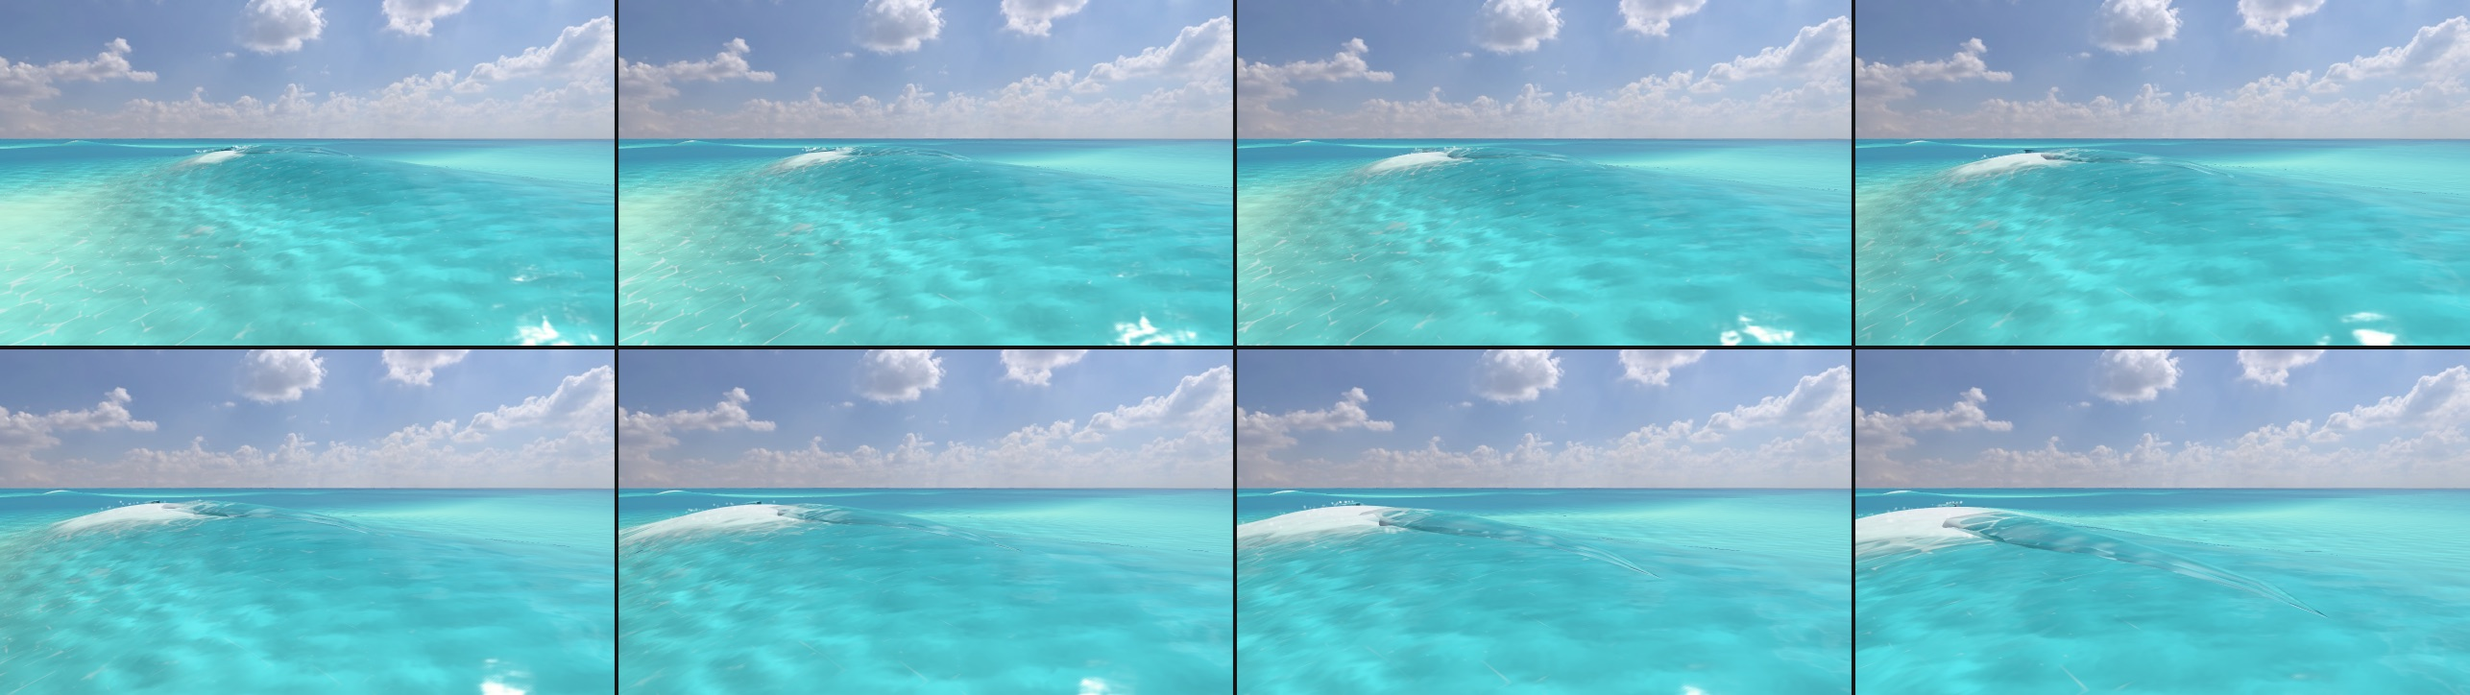
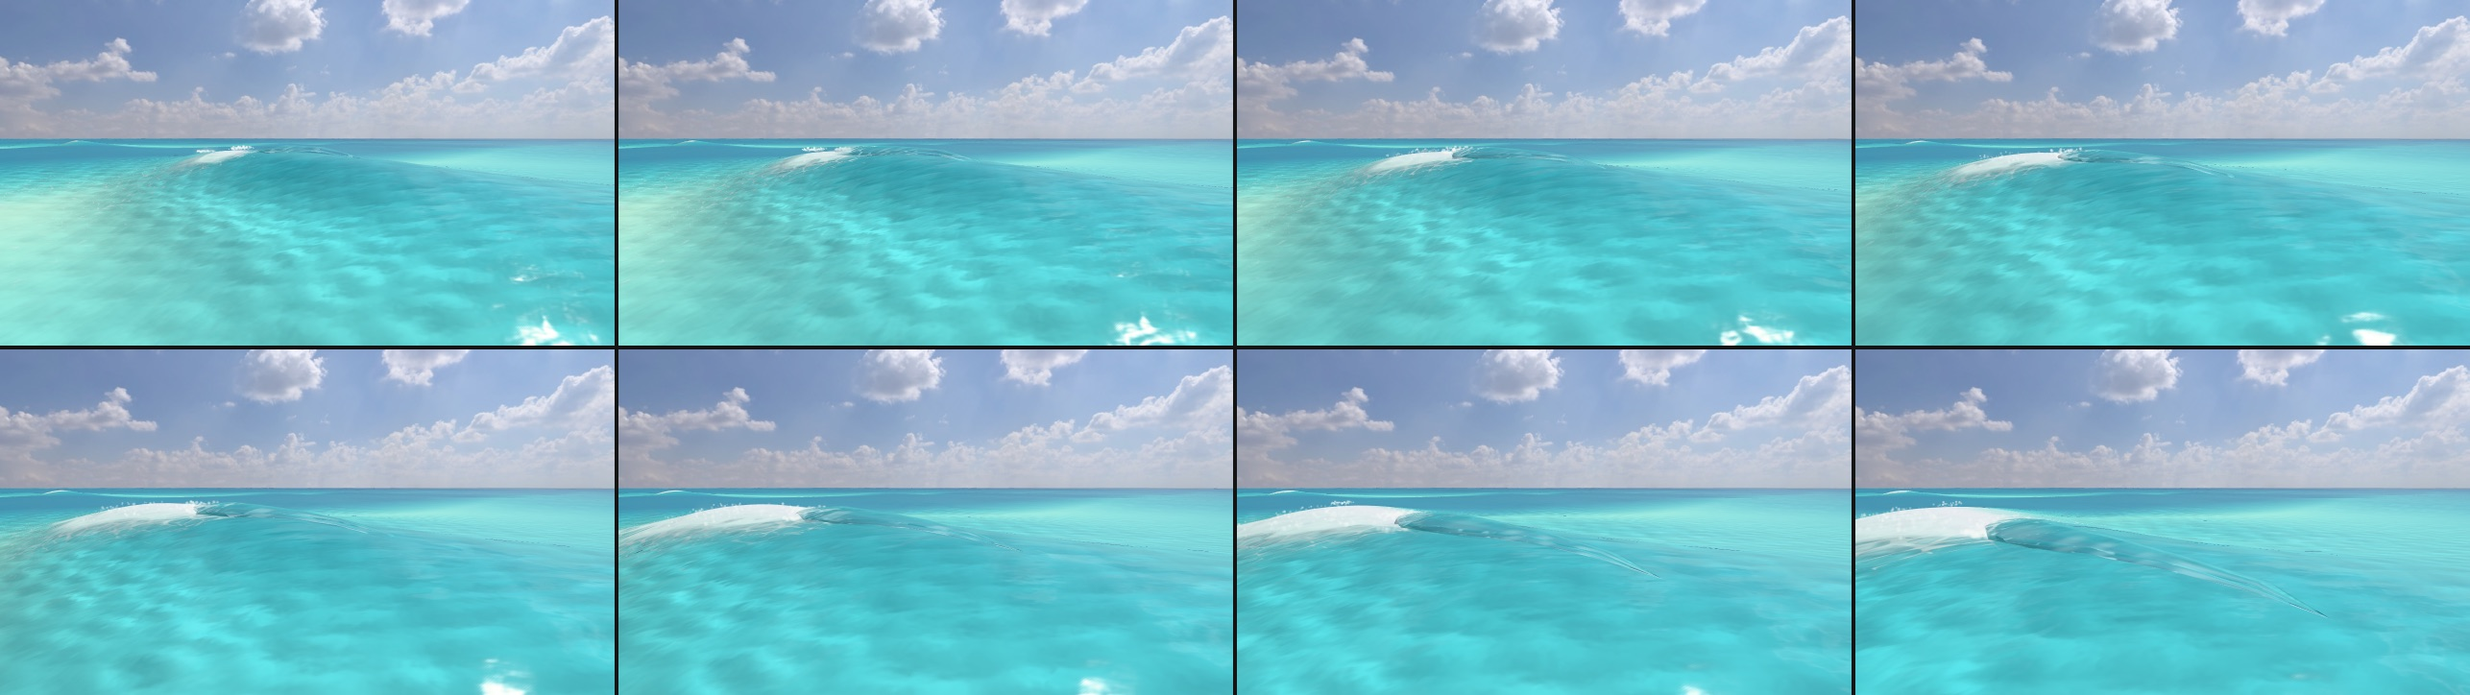
docs: the spilling lip's round 4: in the game, at distance, at dawn and sunset, at Small
In-game stills and frame costs, the distance comparison, Small before and after the
run-end taper, dawn and sunset, the refreshed Medium strip, and the consult-log row.

diff --git a/docs/research/canyon-lip-2026-10-11/README.md b/docs/research/canyon-lip-2026-10-11/README.md
@@ -2,7 +2,7 @@
 
 The owner's playtest of 2026-10-11, at the Canyon: "I don't want the wave to become white then have the spilling; spilling should be like a tube animation but as a separator that the wave is breaking."
 
-What was built, on `claude/canyon-lip` (four passes: the first build, the coordinator's look pass, round 2 after the water-physics advisor's review, and round 3 for the shoulder at Big):
+What was built, on `claude/canyon-lip` (five passes: the first build, the coordinator's look pass, round 2 after the water-physics advisor's review, round 3 for the shoulder at Big, and round 4: the game itself, distance, light and size):
 
 - **A small rolling lip.** At each wave's spilling front the crest sharpens and its tip is thrown out and falls down the face. It runs along the crest at the S2 front's pace (the 55° peel), just behind the front's tip. Each column goes through the break's own sequence as the peel passes it.
 - **A clean shoulder ahead of it.** No whitewater is drawn ahead of the front. The drawn foam drifts shoreward and its lace lasts 6 s rather than 15 s. On each wave's unbroken shoulder ahead of its front, the drawn lace is held back (round 3), so the shoulder is clean green water at Medium and Big.
@@ -12,7 +12,7 @@ It is **look only**. The water, the solver's breaking strength, the S2 whitewate
 
 ## The stills
 
-Canyon, Medium swell (Hs 1.4 m, Tp 11 s, 0°, s = 150), seed 1, in the page, at sea time 133.47 s: a set wave about 2 m high peeling toward +x at the take-off. They were shot from the dev water sheet (`?inpage&waterSheet&spot=canyon&swell=medium&direction=0&spreading=150`, with `&spillingCurl=0` for the before), midday, in the Rich look unless noted. The before and after show the same wave at the same moment, from the same cameras, because the switch changes nothing felt. The after stills are round 3's. The Medium motion strip is round 2's: round 3 changed only the lace on the shoulder, which was faint at Medium.
+Canyon, Medium swell (Hs 1.4 m, Tp 11 s, 0°, s = 150), seed 1, in the page, at sea time 133.47 s: a set wave about 2 m high peeling toward +x at the take-off. They were shot from the dev water sheet (`?inpage&waterSheet&spot=canyon&swell=medium&direction=0&spreading=150`, with `&spillingCurl=0` for the before), midday, in the Rich look unless noted. The before and after show the same wave at the same moment, from the same cameras, because the switch changes nothing felt. The after stills and the Medium motion strip are round 4's. The Big motion strip is round 3's.
 
 | | Before (`spillingCurl` off) | After |
 | --- | --- | --- |
@@ -22,6 +22,10 @@ Canyon, Medium swell (Hs 1.4 m, Tp 11 s, 0°, s = 150), seed 1, in the page, at 
 - **From the beach** (after): ![](after-beach.jpg)
 - **Beside the curl, Classic look** (after): ![](after-beside-classic.jpg)
 - **Big** (`&swell=big`, sea time 201.89 s; this wave is 1.5–1.6 m high, Big's sets reach 2.5 m), beside and from the lineup: ![](after-big-beside.jpg) ![](after-big-lineup.jpg)
+- **At distance** (round 4): Big from the beach, ![](after-big-beach.jpg), in Classic, ![](after-big-beach-classic.jpg), and from about 37 m, ![](after-big-far.jpg); Medium from about 40 m, ![](after-far.jpg). Without and with the distance drawing, Big, from about 37 m, from the beach and from the lineup (left without, right with): ![](distance-big.jpg)
+- **Small** (round 4; `&swell=small`, sea time 99.73 s, a wave about 1.2 m high at the take-off, x −30, z −287), beside and from the lineup: ![](after-small-beside.jpg) ![](after-small-lineup.jpg). Before and after the run ends taper (left, round 3's pods; right, round 4): ![](small-taper.jpg)
+- **Low sun** (round 4; Medium, Rich, the same moment): beside at dawn, ![](after-beside-dawn.jpg), at sunset, ![](after-beside-sunset.jpg), and from the lineup at sunset, ![](after-lineup-sunset.jpg)
+- **In the game** (round 4; the solo game through the worker, GPU tier, 64 components): Medium from the ride camera, ![](ingame-medium-ride.jpg), and the overview, ![](ingame-medium-overview.jpg); Big from the ride camera, ![](ingame-big-ride.jpg), and the overview in Classic, ![](ingame-big-classic-overview.jpg)
 
 **Motion strips.** 8 frames, 0.15 s apart, read left to right then down. Each is from a fixed camera beside the take-off column (x −30) as a curl passes:
 
@@ -49,6 +53,52 @@ Canyon, Medium swell (Hs 1.4 m, Tp 11 s, 0°, s = 150), seed 1, in the page, at 
   - The dark dashes in the Big stills are in the water without the curl too, so they are not the curl's.
 - **After, Medium (round 3):** nothing regressed. The lip, the landing white and the trail behind are unchanged. The few faint lace flecks left on the shoulder in round 2 are gone.
 
+## Round 4: the game, distance, light and size
+
+**In the game.** The solo game draws it through the worker as in the water sheet: PhysicalMode, the worker (GPU tier, 64 components), the snapshot's slices, the page's mesh. I checked Canyon Medium and Big in Rich, and Classic at both, from the ride camera at the start position and from the overview.
+- The curl, the delayed white and the clean shoulder all show. At Big a 2.9 m set reads well from the ride camera: the white on the left, the lip at the front on the crest, clear green face and shoulder to the right.
+- From the overview (60–100 m) the white patch and the clean shoulder read; the lip is a short dark line at the front.
+- No console errors or warnings, in either look.
+- **The browser pane was hidden** throughout. The page ran at 30–50 fps at first, then at about 1 fps, then stopped compositing. The Big sessions were stepped and drawn through the game's own diagnostics hooks (`?diagnostics`: `breaklineDiagnostics.step` and `render`), which drive the same PhysicalMode, worker and draw as a frame.
+- **A bug it showed.** At Big the overview showed a crest's white broken into dashes. The shoulder's band ran on along the crest into a second wave's broken stretch and faded its whitewater. The band now stops at a column another wave has reached with its crest in the band; a break still ahead of that wave's own front stays shoulder. A test covers both cases. The round-3 shoulder test now ends its measurement there too.
+
+**Frame cost in the game** (Medium, ride camera, curls in 2,207 of 2,211 frames; the curl drawn and rebuilt, or hidden and not rebuilt, alternating every 2.5 s in one session; the pane hidden):
+
+| | Lip on | Lip off |
+| --- | --- | --- |
+| Page CPU per frame, median (mean) | 1.6 ms (1.75 ms) | 1.6 ms (1.67 ms) |
+| GPU per frame (timer query), median (mean) | 37.0 ms (35.4 ms) | 36.7 ms (35.4 ms) |
+| Rebuilding the ribbon (`drawCurl`), mean per frame | 0.016 ms (0.2 ms at most) | none |
+
+- The lip costs the page about 0.1 ms of CPU per frame. Its GPU cost is within the timer's noise (less than 1 %).
+- The GPU times are inflated: the pane was hidden, and ANGLE's Metal timer on this M1 Air counts queued work. Only the difference means anything.
+- The worker's own costs are the node timings below. In this session the worker's sea ran at about 0.2× real time, waiting about 100 ms a step to read the GPU water back while the page drew. That is the M1 Air's GPU shared with the page, not the lip.
+- `?spillingCurl=0` turns the lip off in the game now (a dev switch, tested). I didn't compare whole sessions with it: each session draws a new random seed, so the sea differs, and the GPU readback dominated the worker's time.
+
+**Readable at distance** (`DISTANCE` in `SpillingCurlMesh.ts`). From the beach and the lineup at Big the curl was subtle and its ragged tip too small to see. The shape's rules are unchanged (the apex at most 0.1 H, the contrast void). As the lip's nominal thickness (0.052 H, or its own when thicker) shrinks on screen from 5 px to 2 px, the separator is drawn as a line:
+- the lip's two faces are pushed apart along their normals, so it is never drawn thinner than 2 CSS px (a screen-space floor);
+- its tip's froth line widens from its last fifth back to 0.4 of the lip, at 0.8 rather than 0.3, evenly, and its fingers (under a pixel there, a dotted edge) close;
+- its void darkens by up to half again (at most 85 %), but not under its tip from 0.6 of the lip on, so its falling edge reads as a light line over a dark one.
+- Up close nothing changes: beside the Big curl only the far end of the ribbon, 20 m and more away, changed. At Medium the beach and lineup views (about 15 m) barely change; from 40 m the separator now reads.
+
+**My read of the distance images** (`distance-big.jpg`, `after-big-beach.jpg`, `after-big-far.jpg`, `after-far.jpg`):
+- From about 40 m the curl was nearly invisible; it now reads as a dark line along the crest with a light edge over it, between the white and the shoulder.
+- From the beach it reads as a crisp lip on the crest, darker under its edge.
+- From the lineup it is more defined where it meets the white. It is still a fine line at these distances, not a bold one.
+
+**Light** (`after-beside-dawn.jpg`, `after-beside-sunset.jpg`, `after-lineup-sunset.jpg`):
+- The lip takes the water's colour in both, and the darkened void stays a soft grey-teal band, never black.
+- At sunset the low sun behind it lights a few small warm patches along its lower edge, the backlit sheet. That is plausible and not a glow.
+- At dawn the lip is a pale silvery sheet and the landing white is faint. The water around it reflects the bright dawn sky as strongly as the foam, under a sun 2° high. That is the game's foam lighting at dawn, not the lip's. I changed nothing.
+
+**Small** (`after-small-beside.jpg`, `after-small-lineup.jpg`, `small-taper.jpg`). At Small the onsets along the crest are patchy: columns are missing and neighbouring ages jump. The curl was drawn as glass pods: short runs of two or three slices, each closed blunt at a young lip, floating over the gentle face. Two changes fixed it:
+- one missing column is bridged (slices up to 2.6 m apart join);
+- each run tapers to an end closed by a slice of nothing over its last 2.5 m (its size and opacity), not to its front, which pinches by itself.
+
+Now the Small curl reads as a lip along the crest that fades out at its ends. The taper also smooths the old end at Medium and Big, where the collapsing lip met the white patch as a grey wedge; it now blends into the white. That is the only up-close change at Medium and Big.
+
+**The Medium motion strip** is refreshed (`motion-medium.jpg`): the clean shoulder, the lip at the front and the white spreading behind it.
+
 ## The numbers and their sources
 
 | What | Value | Source |
@@ -67,6 +117,8 @@ Canyon, Medium swell (Hs 1.4 m, Tp 11 s, 0°, s = 150), seed 1, in the page, at 
 | The shoulder held back | Along each wave's crest line, up to 30 m ahead of its front, faded in over 3 m from the front. Across shore, from 2 m behind the crest to 12 m or 5 H_b ahead of it, whichever is more, faded over 3 m at both ends. The lace fades with a 0.1 s e-folding time | The coordinator's ruling, round 3; extents set by eye and by the measurement below |
 | Streaks | Two flow-map layers half a 0.45 s period apart; scrolled along the lip at 0.4 m/s near the crest to 3.2 m/s at the tip; 0.3 m apart in world x, 1.2 m long | Surf's Up course notes p. 80; Vlachos 2010; the advisor (2–4 lip thicknesses apart, 4:1) |
 | Ragged tip | Fingers cut from the tip's last fifth, 0.45 m period in world x; the tip's froth varied with the same noise | Surf's Up's lip trains; the advisor (0.3–0.6 m) |
+| Readable at distance (round 4) | The lip at least 2 CSS px thick; drawn as a line as its nominal thickness (0.052 H) goes from 5 px to 2 px on screen: froth from 0.4 of the lip at 0.8, fingers closed, the void up to 1.5× darker (at most 85 %) except under its tip from 0.6 | The coordinator's ruling, round 4; values set by eye on the distance stills |
+| Run ends (round 4) | A run tapers over 2.5 m to an end closed by a slice of nothing; slices up to 2.6 m apart join (one missing column) | Set on the Small stills |
 | Along the crest (the stills' wave) | 0.17 s per metre (a 5.7 m/s front), curl standing over about 7 columns, the face's foot (the lens's toe) 7 m | Measured. Advisor: 0.175 s/m; 2–4 m of open curl, then about 3 m collapsing |
 
 **How it is drawn:**
@@ -93,15 +145,15 @@ Canyon, Medium swell (Hs 1.4 m, Tp 11 s, 0°, s = 150), seed 1, in the page, at 
   - **Where.** For each wave, it finds the crest at the front, then follows the crest line column by column ahead of the front, taking the highest water within 2 m of the last column's crest. It stops where the water stands less than 0.3 of the front's crest height above still water: there is no shoulder there.
   - **What it holds back.** On a band along that line, it fades the drawn foam (`dense` and `residual`) with a 0.1 s e-folding time, and zeroes the drawn whitewater, the foam's source. That source is the solver's weak breaking ahead of a front, which no onset has joined to a wave yet.
   - **Edges.** Every edge of the band is smoothstepped over 3 m, and the fade is a decay rather than a cut, so nothing pops or flickers as the band moves.
-  - **What it leaves.** Behind each front nothing changes, so the whitewater and its lace trail are as they were.
+  - **What it leaves.** Behind each front nothing changes, so the whitewater and its lace trail are as they were. Nor does it where another wave has broken further along the crest (round 4): the band stops at the first column another wave has reached with its crest in the band.
   - **Felt.** Nothing felt changes. The foam is drawn only, and the bores the air reads come from the felt whitewater. The felt-identity test passes with it on.
-  - **Measured.** At the take-off, the mean drawn foam on the shoulder 3–15 m ahead of each front, from 1 m behind its crest to 8 m ahead:
-    - **Medium:** 0.0000 over 83 samples, max 0.00001;
-    - **Big:** 0.0000 over 24 samples, max 0.0000;
+  - **Measured.** At the take-off, the mean drawn foam on the shoulder 3–15 m ahead of each front, from 1 m behind its crest to 8 m ahead, up to another wave's break:
+    - **Medium:** 0.0004 over 83 samples, max 0.0065 (round 3: 0.0000, max 0.00001);
+    - **Big:** 0.0001 over 24 samples, max 0.0025 (round 3: 0.0000);
     - **Without the lip:** 0.22 at Medium and 0.17 at Big.
     - The samples span 30 s of sea, taken every 8 frames.
     - A test holds each sample at or under 0.02 at both sizes.
-- **The crest tracker** (Wave Lab Follow, `crestTracker.ts`) reads the drawn foam from the snapshot. With the lip, the breaking edge it slides to is the white's edge, a few metres behind the curl, rather than S2's early foam. The shoulder's clearing is ahead of the front, so it doesn't move that edge. Its tests pass unchanged after round 3.
+- **The crest tracker** (Wave Lab Follow, `crestTracker.ts`) reads the drawn foam from the snapshot. With the lip, the breaking edge it slides to is the white's edge, a few metres behind the curl, rather than S2's early foam. The shoulder's clearing is ahead of the front, so it doesn't move that edge. Its tests pass unchanged after rounds 3 and 4.
 
 **Cost** (node timings on this M1 Air):
 
@@ -110,7 +162,8 @@ Canyon, Medium swell (Hs 1.4 m, Tp 11 s, 0°, s = 150), seed 1, in the page, at 
 - The foam's drift: +0.2 ms per step on the foam stage (2.26–2.30 → 2.47–2.48 ms in the page's CPU run).
 - The shoulder's clearing (round 3): 0.035 ms per step at Medium and 0.026 ms at Big.
 - Building the ribbon on the page: 0.063 ms for 20 slices and 0.164 ms at the 56-slice maximum, cheaper than the look pass (0.082 and 0.225 ms) because each slice samples the face fewer times. The ribbon is rebuilt once per snapshot, not per frame.
-- The GPU draws one mesh of at most 1,152 vertices with the water's sheet shading, plus two value-noise layers for the streaks and one for the tip. GPU cost was not measured; I estimate it as small.
+- The GPU draws one mesh of at most 1,152 vertices with the water's sheet shading, plus two value-noise layers for the streaks and one for the tip. In the game (round 4) its cost was within the timer's noise; see the frame cost table above.
+- The distance drawing (round 4) adds one depth product and two smoothsteps per vertex and a few per fragment.
 
 ## Sources
 
@@ -140,12 +193,16 @@ Canyon, Medium swell (Hs 1.4 m, Tp 11 s, 0°, s = 150), seed 1, in the page, at 
   - the splash's share (0.3) and fall speed (3.2 m/s).
 - **The foam's drift and lace.** The drift's flux constant (0.18) and reach (1.3 h_b), and the 6 s lace.
 - **The shoulder's band** (round 3). Its reach (30 m), its extent across shore (2 m behind the crest, 12 m or 5 H_b ahead, whichever is more), its 3 m fades, its 0.1 s e-folding time, and the 0.3 crest height where the shoulder ends.
+- **The distance drawing and the run ends** (round 4). `DISTANCE` (2 and 5 px, the froth's 0.4 and 0.8, the void's 1.5× and 85 %, the lit tip from 0.6), the 2.5 m end taper and the 2.6 m join.
 - **The curl's direction and the air rule.** The curl's direction is held within 30° of the shore's normal. The drawn air reaches full strength under foam 0.5 thick.
 
 ## Open checks for the owner (no rider tests were run)
 
 - **Does it read as water spilling and rolling?** It should read as a small lip thrown off the crest just behind the front, a white landing behind it, and a clean shoulder ahead, rather than a glassy awning or a shape sliding along. The motion needs judging in motion: the streaks' fall and each column's sequence can't be read from stills.
-- **The shoulder** (round 3). It is now clean at Medium and Big. Check in play that the band's far edge (12 m or 5 H_b seaward of the crest, whichever is more) never shows as a line in the lace on the water beyond, and that the shoulder looks right at the Canyon's other sizes.
+- **The shoulder** (rounds 3 and 4). It is clean at Medium and Big. Check in play that the band's far edge (12 m or 5 H_b shoreward of the crest, whichever is more) never shows as a line in the lace beyond, and that a second break along the crest keeps all its white.
+- **At distance** (round 4). Is the line strong enough from the beach and the overview, or should the 5 px ramp start further out? It is still a fine line at 15–40 m.
 - **The white's pace.** Is 2 s from touchdown to the face's foot right, and is the landing white bright enough?
-- **Classic, light and tiers.** Classic's darker teal lip, dawn and sunset light, Small, and the GPU tier.
+- **Dawn.** The landing white is faint at dawn: the game's foam lighting under a 2° sun, not the lip's.
+- **Big's motion strip** is round 3's; round 4 changed only its far end and the old end's taper.
+- **The game's frame rate on the M1 Air**, with the pane shown: the frame costs above were measured with the pane hidden.
 - **Nothing felt changed**, so the ride itself should feel exactly as before. Worth confirming on the board, since the white now arrives later than the push.

diff --git a/docs/research/water-physics/consult-log.md b/docs/research/water-physics/consult-log.md
@@ -4,6 +4,7 @@ What other sessions asked about wave shape, the advice they got and what came of
 
 | Date | Session | Question | Advice and outcome |
 | --- | --- | --- | --- |
+| 2026-10-11 | Canyon spilling lip, round 4 (the game path, distance, light, Small) | Does the lip draw in the game itself (worker, GPU tier)? From the beach and lineup at Big the curl is subtle and its ragged tip too small; does it hold at dawn, sunset and Small? | No advisor consult; the coordinator's rulings. In game (Medium and Big, Rich and Classic, through the worker): curl, delayed white and clean shoulder all show, no console errors; the lip costs the page about 0.1 ms CPU a frame, GPU within the timer's noise. Found and fixed: the round-3 shoulder band ran into a second wave's broken stretch along the crest and faded its white (dashes); it now stops where another wave has reached. Distance: as the lip's nominal thickness (0.052 H) falls from 5 to 2 px on screen it is drawn as a line (2 px floor, wider whiter froth, fingers closed, void up to 1.5x darker except under the tip); up close unchanged; the shape's rules kept. Small: patchy onsets drew glass pods; one missing column is bridged and run ends taper over 2.5 m. Dawn and sunset hold (void never black; a few warm backlit patches at sunset); the landing white is faint at dawn (the game's foam lighting under a 2 deg sun). Stills: docs/research/canyon-lip-2026-10-11/. |
 | 2026-10-11 | Canyon spilling lip, round 3 (lace on the shoulder at Big) | Round 2 read well at Medium, but at Big a honeycomb lace (drawn foam 0.05–0.15) still covered the face and the water ahead of the front: lace from the inshore bores, carried seaward by the return flow. The shoreward drift and the 6 s lace did not clear it. | No advisor consult. The coordinator's ruling: hold back the drawn lace on the unbroken shoulder ahead of each front, look only, with fades over a few metres and no flicker; target drawn foam ≤ 0.02 at the take-off at Medium and Big. Built (`SpillingCurl.clearShoulder`): along each wave's crest line up to 30 m ahead of its front, from 2 m behind the crest to max(12 m, 5 H_b) ahead, 3 m smoothstep edges; the drawn foam fades with a 0.1 s e-fold and the drawn whitewater source is zeroed there (unjoined weak breaking ahead of a front). Nothing felt changed (felt-identity test), other spots unchanged, crest tracker tests pass. Measured at the take-off: 0.0000 at Medium (83 samples) and Big (24), against 0.22 and 0.17 without the lip; 0.026–0.035 ms per step. Stills: docs/research/canyon-lip-2026-10-11/. |
 | 2026-10-11 | Canyon spilling lip, round 2 (look-pass review: glassy tongue, small at Big, lace on the shoulder) | What makes the falling lip read as moving; its size at Big; foam on the shoulder; its animation | Lips are laminar until touchdown (Mostert 2022); fingers and drops form on the splash (Watanabe 2005). Ranked: flow-scrolled streaks tied to world x (Surf's Up p. 80; Vlachos 2010), a ragged tip fixed in world x (Surf's Up lip trains), a splash at touchdown via LipImpact. Big: scale with H, apex ≤0.1 H; the missing 0.15–0.2 H is either a look-only face notch (owner: breaks "rider hits what's drawn") or contrast. Foam: faces converge it; nature clears it by shoreward surface drift (Hansen & Svendsen 1984; Q_s ≈ 1.2–1.5 m²/s at Big), which the depth-averaged foam lacks. Drawn drift 0.3–0.4 m/s kept out of the shared stencil, or residual 15 → 6 s. Animation: a ballistic tip instead of self-similar growth. Outcome: contrast route; drawn drift (+6 s residual if needed); Classic draws the curl (barrel/roller precedent). |
 | 2026-10-11 | Canyon spilling lip (owner playtest: white before spill) | Shape, aeration timing, along-crest separator, cheap build, why the face whitens first | Surf-scale spillers overturn (Deike 2015); P&F curl 0.10–0.20 H², 47–50°, lip ≈0.05 H; green until touchdown 0.35–0.7 s (inferred), toe over 5–8 h_b; separator = 2–4 m open curl; S2 ramp (35 % line, 5 m/s) and S3 band whiten the face in 0.2–0.3 s; ribbon from S2 age + Overturn.ts (provisional), Basilisk L15 for the decided path. Owner: look-only (push unchanged), provisional shape now, white to the foot ≈2 s after landing. |
